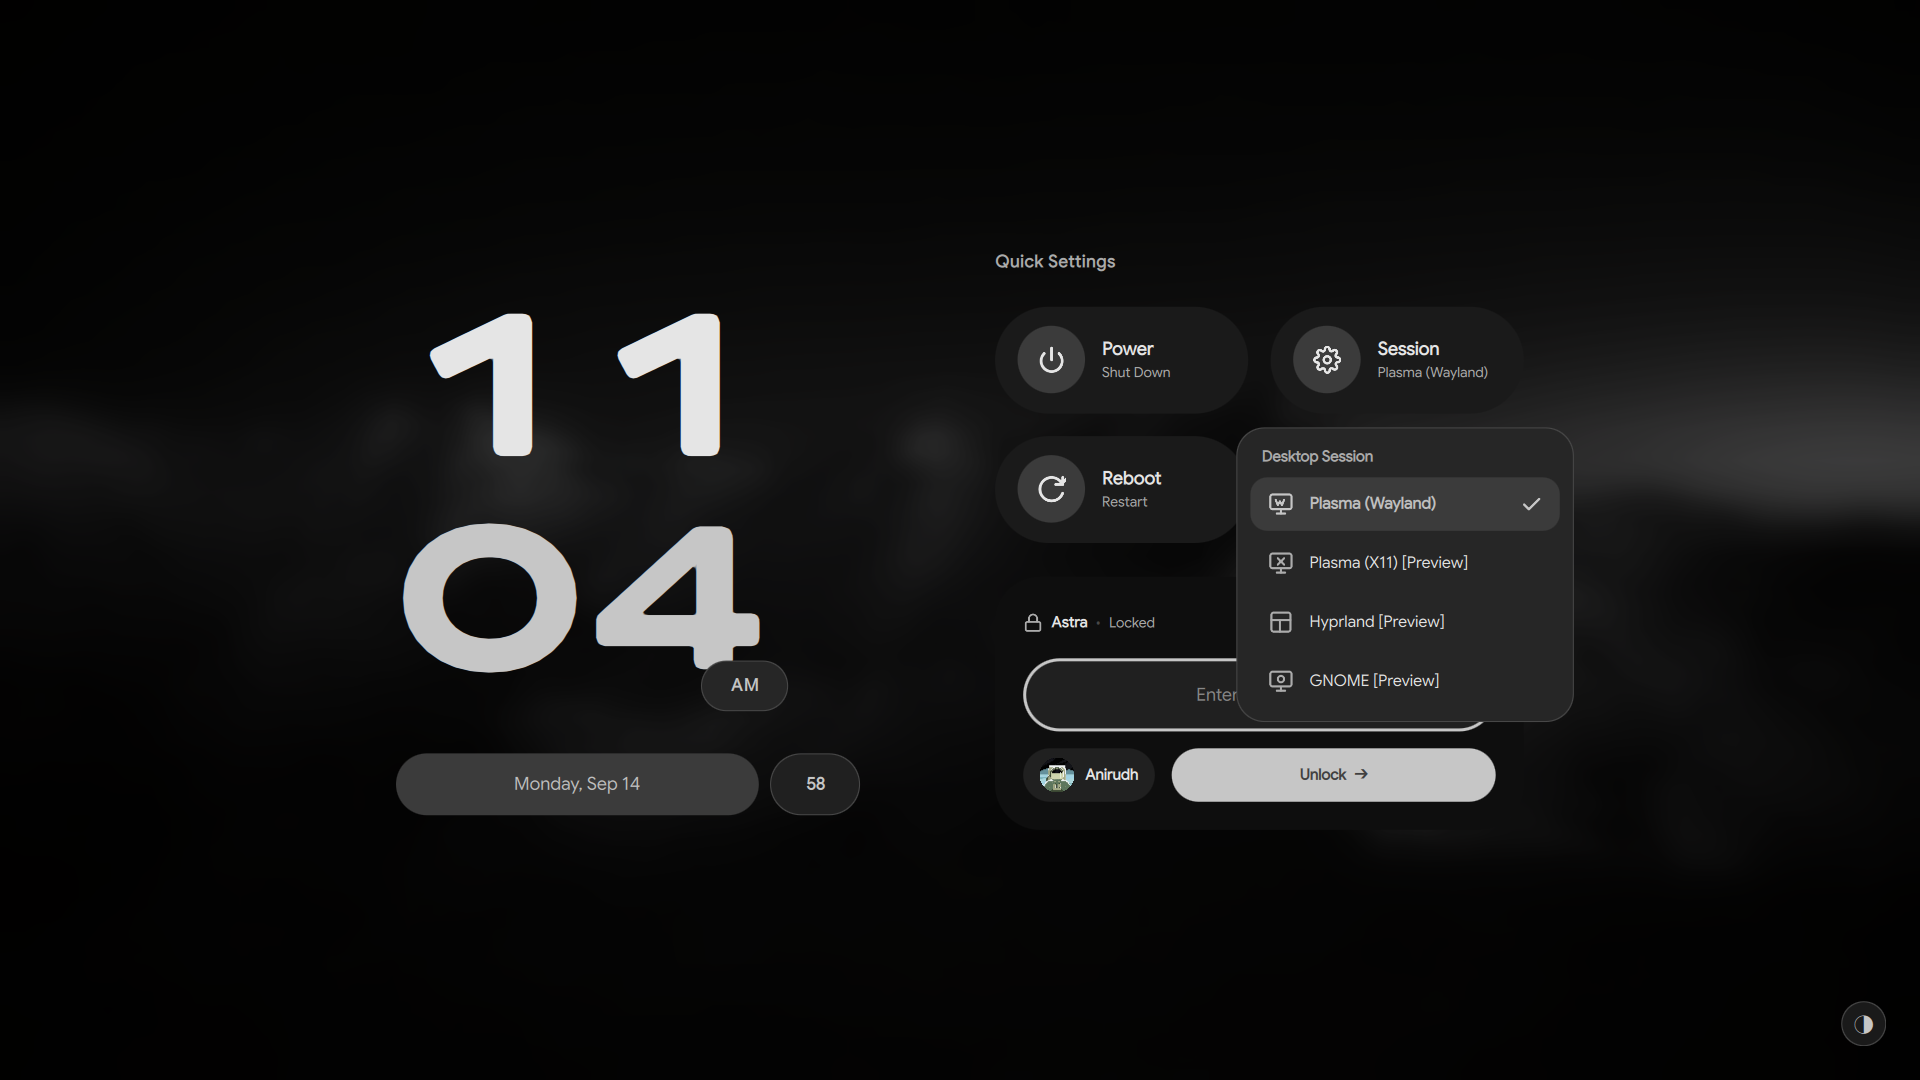
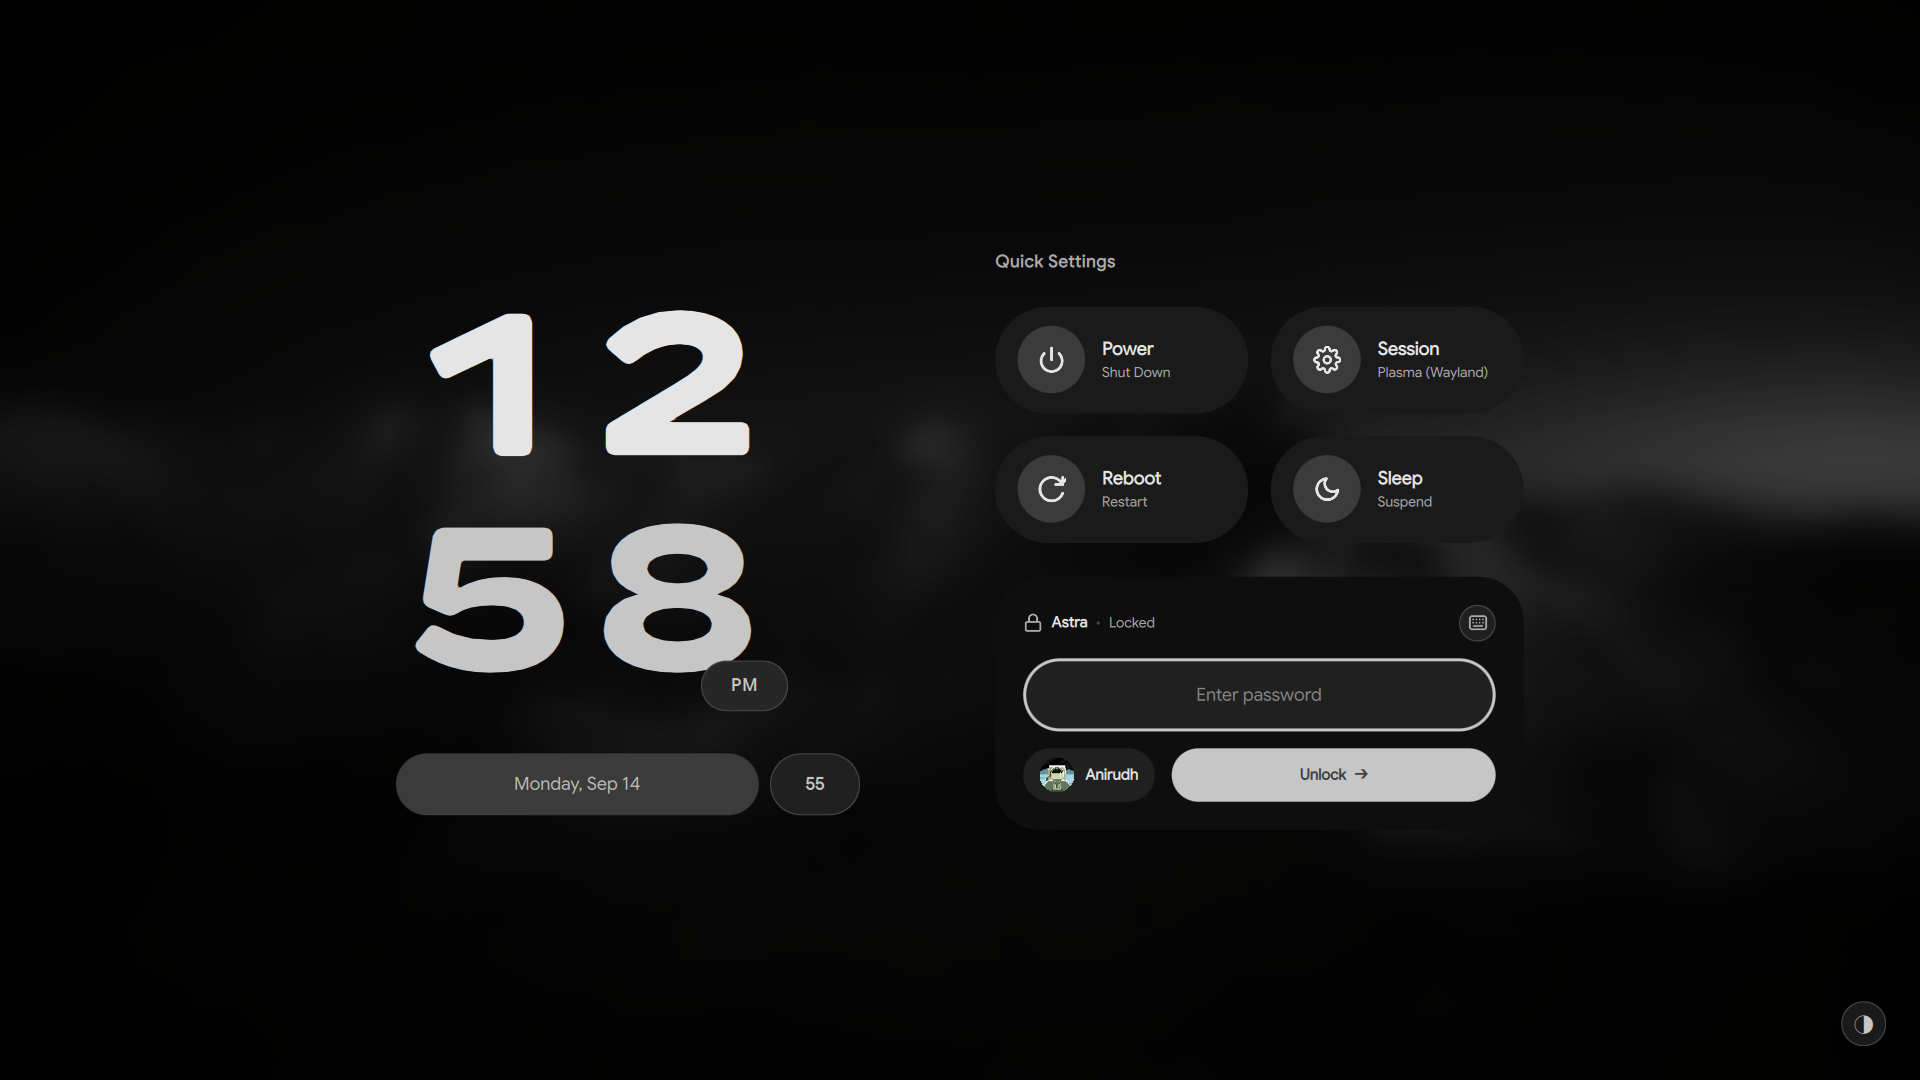
feat(assets): expand screenshot gallery with dashboard, spicetify, utilities, and clean SDDM/terminal

Changed region(s): [[0.625, 0.3972, 0.8125, 0.6722], [0.1875, 0.4583, 0.4062, 0.6417], [0.3125, 0.275, 0.4062, 0.4278]]

diff --git a/README.md b/README.md
@@ -25,20 +25,43 @@ A technical configuration repository for Arch Linux, KDE Plasma 6.4, and the Cae
 
 ## 2. Visual Overview
 
-### Desktop Interface (Warm Palette)
-![Desktop Interface with Warm Palette](assets/screenshots/desktop_warm.png)
+### 2.1 Desktop Palettes
+- **Warm Amber Palette:**
+  ![Desktop Interface with Warm Palette](assets/screenshots/desktop_warm.png)
+- **Cool Cyan Palette:**
+  ![Desktop Interface with Cool Palette](assets/screenshots/desktop_cool.png)
+- **Forest Green Palette:**
+  ![Desktop Interface with Forest Palette](assets/screenshots/desktop_forest.png)
 
-### Desktop Interface (Cool Palette)
-![Desktop Interface with Cool Palette](assets/screenshots/desktop_cool.png)
+### 2.2 Shell Drawers and Navigation
+- **Application Launcher Grid:**
+  ![Caelestia Application Launcher](assets/screenshots/launcher_grid.png)
+- **Quick Settings and Utilities Flyout:**
+  ![Quick Settings and Utilities](assets/screenshots/utilities_quick_settings.png)
+- **Notification Sidebar:**
+  ![Notification Sidebar](assets/screenshots/sidebar_notifications.png)
+- **Clipboard History Manager:**
+  ![Clipboard History Manager](assets/screenshots/clipboard_manager.png)
 
-### Application Launcher
-![Caelestia Application Launcher](assets/screenshots/launcher_grid.png)
+### 2.3 Media Subsystem
+- **Media Dashboard with Synced Lyrics:**
+  ![Media Dashboard](assets/screenshots/media_dashboard.png)
+- **Spotify with Spicetify Theming:**
+  ![Spotify with Spicetify](assets/screenshots/spotify_spicetify.png)
 
-### Terminal and System Information
-![Kitty Terminal with Fastfetch](assets/screenshots/terminal_fastfetch.png)
+### 2.4 Terminal and System Utilities
+- **Kitty Terminal with Starship and Fastfetch:**
+  ![Kitty Terminal with Fastfetch](assets/screenshots/terminal_fastfetch.png)
+- **Btop System Monitor:**
+  ![Btop System Monitor](assets/screenshots/terminal_btop.png)
+- **Yazi Terminal File Manager:**
+  ![Yazi File Manager](assets/screenshots/terminal_yazi.png)
 
-### SDDM Login Greeter
-![Material You SDDM Greeter](assets/screenshots/sddm_greeter.png)
+### 2.5 System Configuration and Greeter
+- **Nexus Settings Control Center:**
+  ![Nexus Settings Panel](assets/screenshots/nexus_settings.png)
+- **SDDM Login Greeter (Idle State):**
+  ![Material You SDDM Greeter](assets/screenshots/sddm_greeter.png)
 
 ---
 
